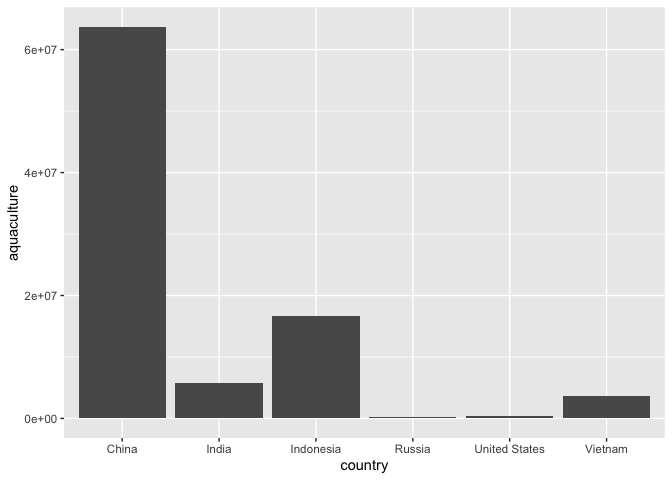
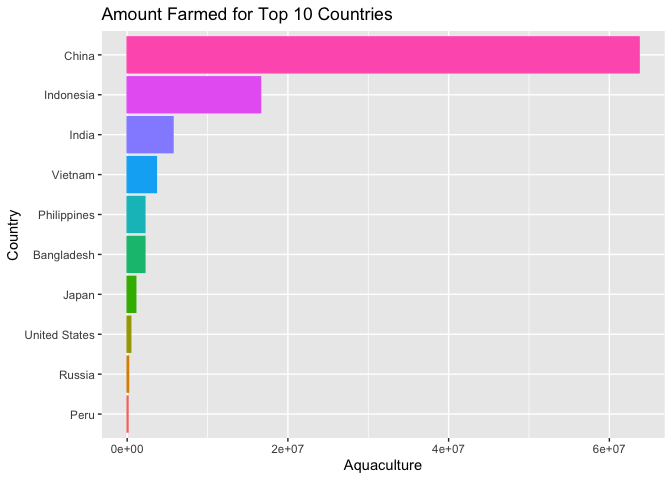
improved fisheries plots

diff --git a/lab-06.md b/lab-06.md
@@ -67,15 +67,6 @@ between part-time hires and other positions.
 
 ### Fisheries
 
-To improve the first plot, I would change the scale on the y-axis or
-exclude a high outlier to make the trends at lower total harvest values
-more visible. I would also use a bar graph instead of a density
-distribution to provide a better comparison between the total harvests
-of different countries. For the other two plots, I would also opt for
-bar graphs instead of pie charts because they would be easier to read
-and I am personally more interested in comparisons between countries
-than contributions to the whole.
-
 ``` r
 fisheries <- read_csv("data/fisheries.csv")
 ```
@@ -91,56 +82,85 @@ fisheries <- read_csv("data/fisheries.csv")
 
 ``` r
 filtered_fisheries <- fisheries %>%
-  filter(country %in% c("China", "Indonesia", "India", "Vietnam", "United States", "Russia"))
+  filter(country %in% c("China", "Indonesia", "India", "Vietnam", "United States", "Russia", "Japan", "Philippines", "Peru", "Bangladesh"))
 ```
 
 ``` r
+filtered_fisheries$country_ordered <- fct_relevel(filtered_fisheries$country, 'Bangladesh', 'Peru', 'Philippines', 'Japan', 'Russia', 'United States', 'Vietnam', 'India', 'Indonesia', 'China')
+
 filtered_fisheries %>%
   ggplot(aes(
-    x = country,
-    y = total
+    x = country_ordered,
+    y = total,
+    color = country_ordered,
+    fill = country_ordered
   )) +
-  geom_col()
+  labs (x = 'Country',
+        y = 'Total Harvest',
+        color = 'Country',
+        fill = 'Country',
+        title = 'Total Harvest for Top 10 Countries') +
+  geom_col(show.legend = FALSE) +
+  coord_flip() 
 ```
 
 ![](lab-06_files/figure-gfm/fisheries-total-plot-1.png)<!-- -->
 
 ``` r
+filtered_fisheries$country_ordered <- fct_relevel(filtered_fisheries$country, 'Bangladesh', 'Philippines', 'Vietnam', 'Japan', 'Peru', 'Russia', 'United States', 'India', 'Indonesia', 'China')
+                                                  
 filtered_fisheries %>%
   ggplot(aes(
-    x = country,
-    y = capture
+    x = country_ordered,
+    y = capture,
+    color = country_ordered,
+    fill = country_ordered
   )) +
-  geom_col()
+  labs (x = 'Country',
+        y = 'Capture',
+        color = 'Country',
+        fill = 'Country',
+        title = 'Amount Captured for Top 10 Countries') +
+  geom_col(show.legend = FALSE) +
+  coord_flip()
 ```
 
 ![](lab-06_files/figure-gfm/fisheries-capture-plot-1.png)<!-- -->
 
 ``` r
+filtered_fisheries$country_ordered <- fct_relevel(filtered_fisheries$country, 'Peru', 'Russia', 'United States', 'Japan', 'Bangladesh', 'Philippines', 'Vietnam', 'India', 'Indonesia', 'China')
+                                                  
 filtered_fisheries %>%
   ggplot(aes(
-    x = country,
-    y = aquaculture
+    x = country_ordered,
+    y = aquaculture,
+    color = country_ordered,
+    fill = country_ordered
   )) +
-  geom_col()
+  labs (x = 'Country',
+        y = 'Aquaculture',
+        color = 'Country',
+        fill = 'Country',
+        title = 'Amount Farmed for Top 10 Countries') +
+  geom_col(show.legend = FALSE) +
+  coord_flip() 
 ```
 
 ![](lab-06_files/figure-gfm/fisheries-aquaculture-plot-1.png)<!-- -->
 
-``` r
-fisheries %>%
-  ggplot(aes(
-    x = country,
-    y = total
-  )) + 
-  geom_col() +
-  facet_wrap(~ country, nrow = 216)
-```
+- I opted for bar graphs instead of the density distribution and donut
+  charts to provide more clear comparisons of the harvest amounts
+  between different countries.
 
-![](lab-06_files/figure-gfm/test-faceted-plot-1.png)<!-- -->
+- I limited my sample to the 10 countries with the highest total harvest
+  amounts to simplify the plots (but I realize that this results in some
+  information lost).
 
-### Exercise 3
+- I used coord_flip() to move the country names to the y-axis and make
+  them more readable.
 
-…
+- I assigned a distinct color to each country to create more contrast
+  and assist with comparisons.
 
-Add exercise headings as needed.
+- I removed the legend because it provided information about country
+  that was redundant with the graph.
